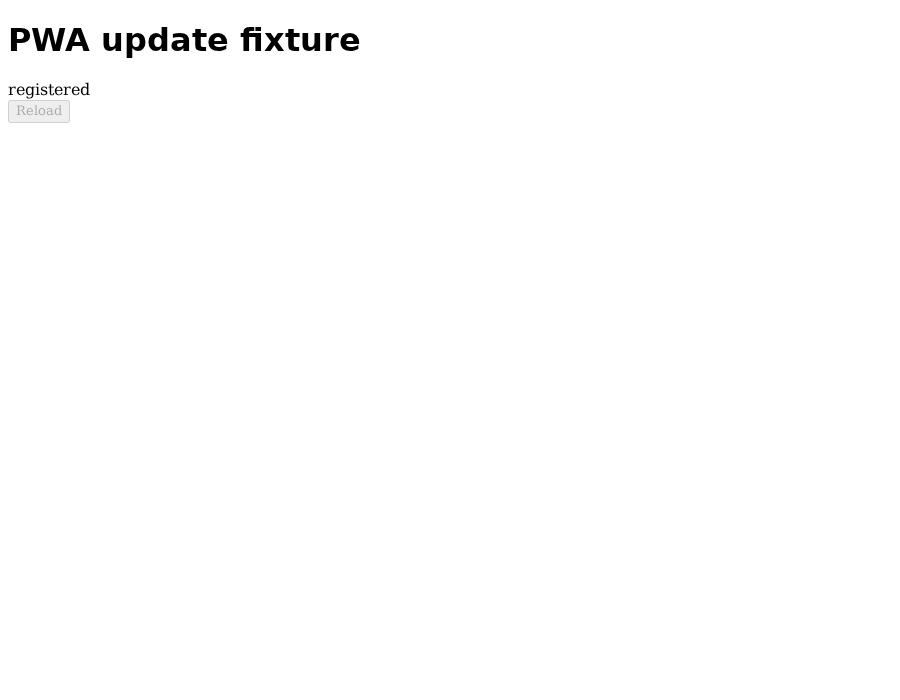
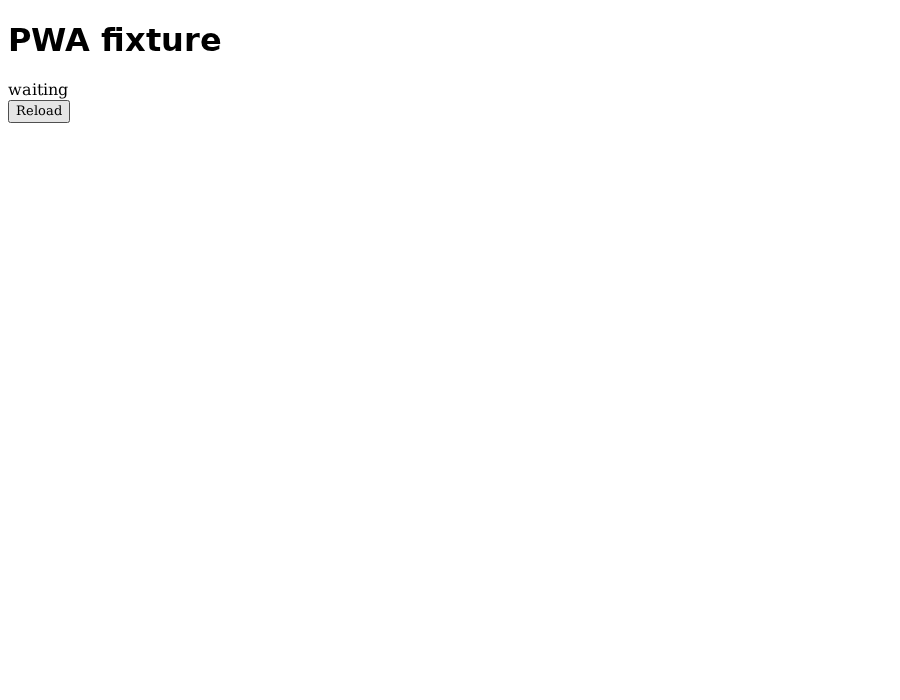
Changes

Changed region(s): [[0.0933, 0.03, 0.4044, 0.09], [0.0, 0.12, 0.0933, 0.18]]

diff --git a/scripts/pwa-fixture/index.html b/scripts/pwa-fixture/index.html
@@ -1,41 +1,31 @@
 <!DOCTYPE html>
-<html>
-<head>
-  <meta charset="utf-8" />
-  <title>PWA update E2E fixture</title>
-</head>
-<body>
-  <h1>PWA update fixture</h1>
-  <div id="status">idle</div>
-  <button id="reload-btn" disabled>Reload</button>
-
-  <script type="module">
-    // Mirror of src/lib/pwa/register.ts updateAndReload — the exact chain we test.
-    import { Workbox } from "/workbox-window.prod.mjs";
-
-    const status = document.getElementById("status");
-    const btn = document.getElementById("reload-btn");
-    const setStatus = (s) => { status.textContent = s; };
-
-    const wb = new Workbox("/sw.js", { scope: "/" });
-
-    const updateAndReload = async () => {
-      await new Promise((resolve) => {
-        wb.addEventListener("controlling", () => resolve());
-        wb.messageSkipWaiting();
-      });
-      window.location.reload();
-    };
-
-    wb.addEventListener("waiting", () => {
-      setStatus("waiting");
-      btn.disabled = false;
-    });
-
-    btn.addEventListener("click", () => { void updateAndReload(); });
-
-    wb.register().then(() => setStatus("registered"))
-                 .catch((e) => setStatus("register-failed: " + e.message));
-  </script>
-</body>
-</html>
+<html><head><meta charset="utf-8"><title>PWA fixture</title></head><body>
+<h1>PWA fixture</h1><div id="status">idle</div>
+<button id="reload-btn" disabled>Reload</button>
+<script type="module">
+import { Workbox } from "/workbox-window.prod.mjs";
+const status = document.getElementById("status");
+const btn = document.getElementById("reload-btn");
+const wb = new Workbox("/sw.js", { scope: "/" });
+const updateAndReload = async () => {
+  console.log("[fix] updateAndReload start");
+  await new Promise((resolve) => {
+    wb.addEventListener("controlling", () => { console.log("[fix] controlling event"); resolve(); });
+    console.log("[fix] messageSkipWaiting");
+    wb.messageSkipWaiting();
+  });
+  console.log("[fix] calling reload");
+  window.location.reload();
+};
+wb.addEventListener("waiting", (e) => {
+  console.log("[fix] waiting event, isUpdate=", e.isUpdate, "wasWaitingBeforeRegister=", e.wasWaitingBeforeRegister);
+  status.textContent = "waiting";
+  btn.disabled = false;
+});
+wb.addEventListener("installed", (e) => console.log("[fix] installed, isUpdate=", e.isUpdate));
+wb.addEventListener("activated", (e) => console.log("[fix] activated, isUpdate=", e.isUpdate));
+wb.addEventListener("redundant", () => console.log("[fix] redundant"));
+btn.addEventListener("click", () => { console.log("[fix] click"); void updateAndReload(); });
+wb.register().then(r => { console.log("[fix] registered", r?.scope); status.textContent="registered"; })
+             .catch(e => { console.log("[fix] register failed", e.message); status.textContent="fail"; });
+</script></body></html>

diff --git a/scripts/pwa-update-e2e.py b/scripts/pwa-update-e2e.py
@@ -90,6 +90,7 @@ async def run() -> int:
             )
             page = await context.new_page()
             page.on("pageerror", lambda e: print("PAGEERROR:", e))
+            page.on("console", lambda m: print("CON:", m.type, m.text))
 
             # ---- v1 install ----
             await page.goto(base + "/", wait_until="load")
